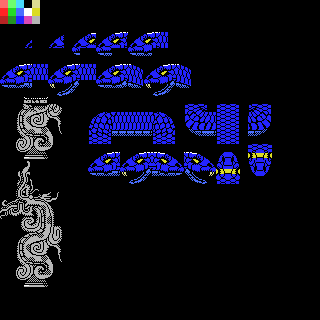
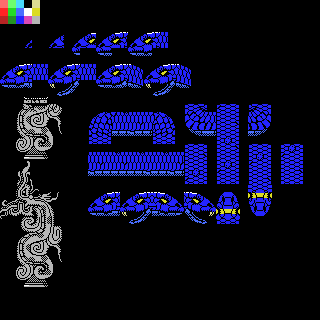
boss 7 phase 2 behavior finished

Changed region(s): [[0.25, 0.4375, 0.9688, 0.7188]]

diff --git a/java/src/xspelunker2/Bosses.java b/java/src/xspelunker2/Bosses.java
@@ -891,7 +891,7 @@ public class Bosses {
             }            
             // phase 2 snake tiles:
             nameTableBoxes.clear();
-            nameTableBoxes.add(new int[]{88, 104, 280, 184});
+            nameTableBoxes.add(new int[]{88, 104, 320, 224});
             List<int[][]> nametables_phase2 = addBossTilesInGapsForBoxes(nameTableBoxes, baseImage, boss7Tiles, availableTiles, collision, false, false);
             
             // broken statue:
@@ -901,11 +901,22 @@ public class Bosses {
             // snake pieces
             nameTable = nametables_phase2.get(0);
             addNameTable(nameTable, 0, 0, 4, 5, nameTableData_snake);  // d-r / r-d
-            addNameTable(nameTable, 4, 0, 8, 5, nameTableData_snake);  // l-r / r-l
+            addNameTable(nameTable, 4, 0, 8, 5, nameTableData_snake);  // l-r / r-l (1)
             addNameTable(nameTable, 8, 0, 12, 5, nameTableData_snake);  // l-d / d-l
             addNameTable(nameTable, 12, 0, 16, 5, nameTableData_snake);  // u-r / r-u
-            addNameTable(nameTable, 16, 0, 20, 5, nameTableData_snake);  // u-d / d-u
+            addNameTable(nameTable, 24, 5, 28, 10, nameTableData_snake);  // u-d / d-u (1)
             addNameTable(nameTable, 20, 0, 24, 5, nameTableData_snake);  // l-u / u-l
+
+            // l-r / r-l variations:
+            addNameTable(nameTable, 0, 5, 4, 10, nameTableData_snake);  // l-r / r-l (2)
+            addNameTable(nameTable, 4, 5, 8, 10, nameTableData_snake);  // l-r / r-l (3)
+            addNameTable(nameTable, 8, 5, 12, 10, nameTableData_snake);  // l-r / r-l (4)
+
+            // u-d / d-u variations:
+            addNameTable(nameTable, 20, 5, 24, 10, nameTableData_snake);  // u-d / d-u (2)
+            addNameTable(nameTable, 16, 5, 20, 10, nameTableData_snake);  // u-d / d-u (4)
+            addNameTable(nameTable, 12, 5, 16, 10, nameTableData_snake);  // u-d / d-u (4)
+            addNameTable(nameTable, 16, 0, 20, 5, nameTableData_snake);  // u-d / d-u (5)
             
             // find the first tile of the head:
             {
@@ -919,12 +930,12 @@ public class Bosses {
             }
             
  
-            addNameTable(nameTable, 0, 5, 4, 10, nameTableData_snake);  // head left
-            addNameTable(nameTable, 4, 5, 8, 10, nameTableData_snake);  // head left mouth
-            addNameTable(nameTable, 8, 5, 12, 10, nameTableData_snake);  // head right
-            addNameTable(nameTable, 12, 5, 16, 10, nameTableData_snake);  // head right mouth
-            addNameTable(nameTable, 16, 5, 20, 10, nameTableData_snake);  // head up
-            addNameTable(nameTable, 20, 5, 24, 10, nameTableData_snake);  // head down
+            addNameTable(nameTable, 0, 10, 4, 15, nameTableData_snake);  // head left
+            addNameTable(nameTable, 4, 10, 8, 15, nameTableData_snake);  // head left mouth
+            addNameTable(nameTable, 8, 10, 12, 15, nameTableData_snake);  // head right
+            addNameTable(nameTable, 12, 10, 16, 15, nameTableData_snake);  // head right mouth
+            addNameTable(nameTable, 16, 10, 20, 15, nameTableData_snake);  // head up
+            addNameTable(nameTable, 20, 10, 24, 15, nameTableData_snake);  // head down
             
             for(int i = 0;i<16;i++) {
                 String line = "    db ";
